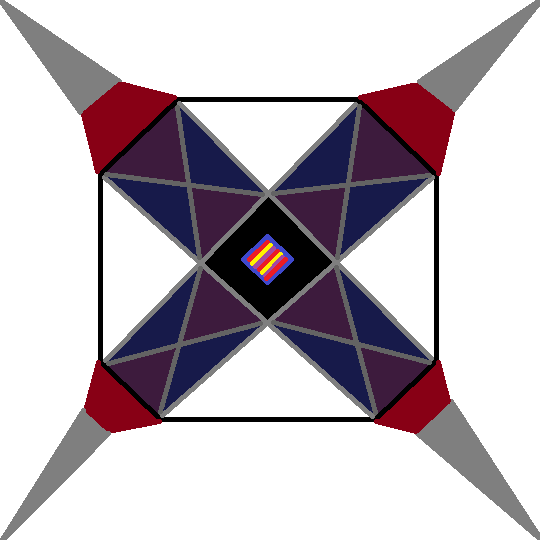
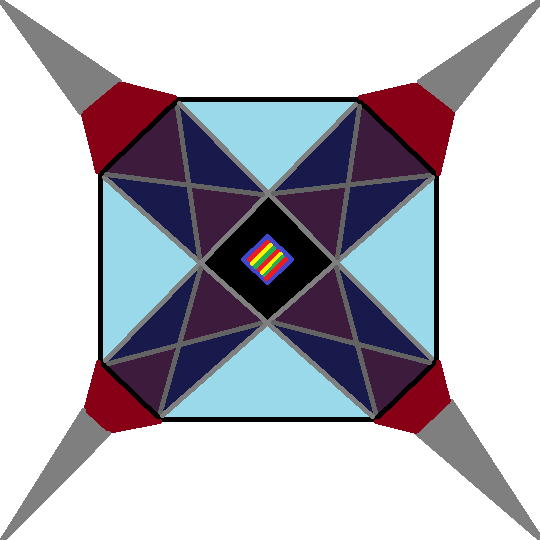
Updated library floor textures.

diff --git a/Maneuver.js b/Maneuver.js
@@ -9767,7 +9767,7 @@ function swaying_nettle_terrain(floor_num, area, map){
 /** @type {AreaGenerator}*/
 function generate_library_area(){
     return {
-        background: `${IMG_FOLDER.backgrounds}ruins.png`,
+        background: `${IMG_FOLDER.backgrounds}library.png`,
         generate_floor: generate_library_floor,
         enemy_list: [
             moving_turret_h_tile, moving_turret_d_tile, brightling_tile, captive_void_tile, paper_construct_tile,

diff --git a/source/4_floors/areas/library_area.js b/source/4_floors/areas/library_area.js
@@ -1,7 +1,7 @@
 /** @type {AreaGenerator}*/
 function generate_library_area(){
     return {
-        background: `${IMG_FOLDER.backgrounds}ruins.png`,
+        background: `${IMG_FOLDER.backgrounds}library.png`,
         generate_floor: generate_library_floor,
         enemy_list: [
             moving_turret_h_tile, moving_turret_d_tile, brightling_tile, captive_void_tile, paper_construct_tile,
